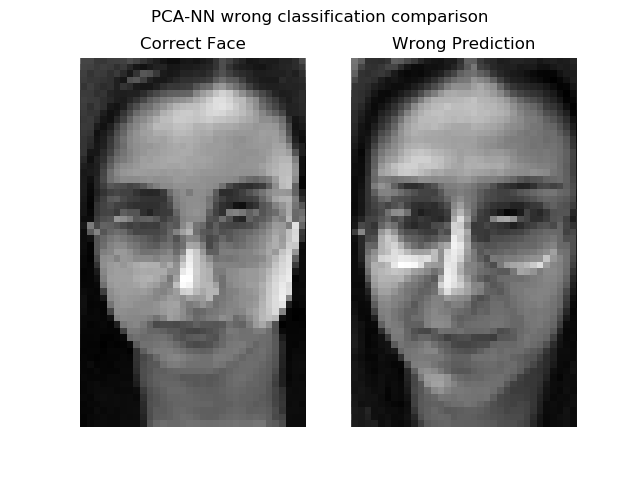
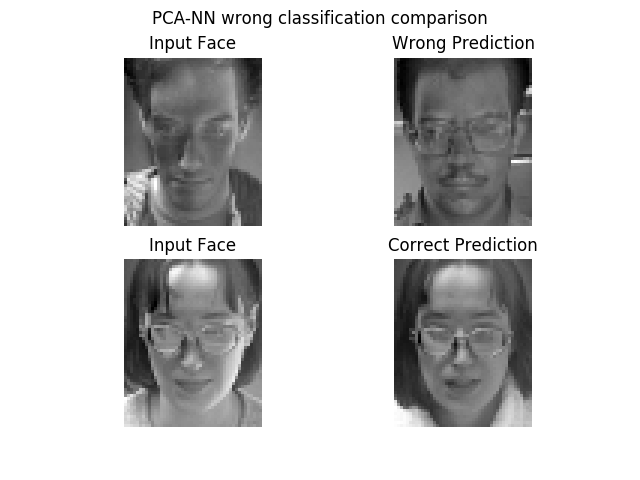
adding wrong and correct examples

diff --git a/Coursework 1/q3.py b/Coursework 1/q3.py
@@ -97,12 +97,24 @@ def identity_error(labels, labels_correct):
     #normalise by size of labels
     return err/len(labels)
 
+def nn_classifier_index(face,train):
+    nn = copy.deepcopy(train)
+    label_index = 0
+    min_distance =  np.linalg.norm(face - nn)
+    for i in range(1,train.shape[0]):
+        #get distance between
+        curr_distance = np.linalg.norm(face - train[i])
+        if curr_distance < min_distance:
+            nn = train[i]
+            min_distance = curr_distance
+            label_index = i
+    return label_index
+
 def main():
 
     # Load dataset
     dataset = load_data()
 
-    '''
 
     ##############
     # BASIC TEST #
@@ -119,9 +131,58 @@ def main():
 
     # Run
     lda.run_pca_lda()
-    lda.run_nn_classifier()
+    err, y_pred = lda.run_nn_classifier()
 
+    # find wrong classification
+    err_index = 0
+    for i in range(1,len(y_pred)):
+        if not y_pred[i] == dataset['test_y'][i]:
+            err_index = i
+            break
+        if y_pred[i] == dataset['test_y'][i]:
+            corr_index = i
 
+    correct_face = copy.deepcopy(dataset['test_x'][:,[err_index]])
+    index = nn_classifier_index(lda.transform(correct_face),lda.transform(dataset['train_x']))
+    wrong_face   = copy.deepcopy(dataset['train_x'][:,[index]])
+
+    correct_face_2 = copy.deepcopy(dataset['test_x'][:,[corr_index]])
+    index = nn_classifier_index(lda.transform(correct_face_2),lda.transform(dataset['train_x']))
+    corr_face   = copy.deepcopy(dataset['train_x'][:,[index]])
+
+    # plot both faces to compare
+    plt.figure()
+    f, ax = plt.subplots(2, 2, sharey=True)
+    f.suptitle('PCA-LDA-NN wrong classification comparison')
+
+    img = (correct_face).reshape((46,56))
+    img = np.rot90(img,3)
+    ax[0,0].imshow(img, cmap="gray")
+    ax[0,0].axis('off')
+    ax[0,0].set_title('Input Face')
+
+    img = (wrong_face).reshape((46,56))
+    img = np.rot90(img,3)
+    ax[0,1].imshow(img, cmap="gray")
+    ax[0,1].axis('off')
+    ax[0,1].set_title('Wrong Prediction')
+
+    img = (correct_face_2).reshape((46,56))
+    img = np.rot90(img,3)
+    ax[1,0].imshow(img, cmap="gray")
+    ax[1,0].axis('off')
+    ax[1,0].set_title('Input Face')
+
+    img = (corr_face).reshape((46,56))
+    img = np.rot90(img,3)
+    ax[1,1].imshow(img, cmap="gray")
+    ax[1,1].axis('off')
+    ax[1,1].set_title('Correct Prediction')
+
+    #plt.title('Comparison of reconstruction')
+    plt.savefig("results/q3/wrong_pca_lda_nn_classifier.png", format="png", transparent=True)
+
+    '''
 
 
     ######################

diff --git a/Coursework 1/q1-2.py b/Coursework 1/q1-2.py
@@ -21,6 +21,8 @@ def main():
     M = np.arange(0,401,5)
     #M = np.arange(0,200,25)
 
+    '''
+
     ########################
     # RECONSTRUCTION ERROR #
     ########################
@@ -253,6 +255,8 @@ def main():
     # CLASSIFIER COMPARISON #
     #########################
 
+    '''
+
     # Best, reconstruction classifier
     eigenface.M = 2
     err, y_pred = eigenface.run_reconstruction_classifier(err_min=20)
@@ -263,31 +267,53 @@ def main():
 
     # find wrong classification
     err_index = 0
-    for i in range(3,len(y_pred)):
+
+    for i in range(20,len(y_pred)):
         if not y_pred[i] == dataset[1][1][i]:
             err_index = i
+            break
+
+    for i in range(1,len(y_pred)):
+        if y_pred[i] == dataset[1][1][i]:
+            corr_index = i
             break
 
     correct_face = copy.deepcopy(dataset[1][0][:,[err_index]])
     index = eigenface.nn_classifier_index(eigenface.project_to_face_space(correct_face))
     wrong_face   = copy.deepcopy(dataset[0][0][:,[index]])
 
+    correct_face_2 = copy.deepcopy(dataset[1][0][:,[corr_index]])
+    index = eigenface.nn_classifier_index(eigenface.project_to_face_space(correct_face_2))
+    corr_face   = copy.deepcopy(dataset[0][0][:,[index]])
+
     # plot both faces to compare
     plt.figure()
-    f, (ax1, ax2) = plt.subplots(1, 2, sharey=True)
+    f, ax = plt.subplots(2, 2, sharey=True)
     f.suptitle('PCA-NN wrong classification comparison')
 
-    img = (correct_face + mean).reshape((46,56))
+    img = (correct_face).reshape((46,56))
     img = np.rot90(img,3)
-    ax1.imshow(img, cmap="gray")
-    ax1.axis('off')
-    ax1.set_title('Correct Face')
+    ax[0,0].imshow(img, cmap="gray")
+    ax[0,0].axis('off')
+    ax[0,0].set_title('Input Face')
 
-    img = (wrong_face + mean).reshape((46,56))
+    img = (wrong_face).reshape((46,56))
     img = np.rot90(img,3)
-    ax2.imshow(img, cmap="gray")
-    ax2.axis('off')
-    ax2.set_title('Wrong Prediction')
+    ax[0,1].imshow(img, cmap="gray")
+    ax[0,1].axis('off')
+    ax[0,1].set_title('Wrong Prediction')
+
+    img = (correct_face_2).reshape((46,56))
+    img = np.rot90(img,3)
+    ax[1,0].imshow(img, cmap="gray")
+    ax[1,0].axis('off')
+    ax[1,0].set_title('Input Face')
+
+    img = (corr_face).reshape((46,56))
+    img = np.rot90(img,3)
+    ax[1,1].imshow(img, cmap="gray")
+    ax[1,1].axis('off')
+    ax[1,1].set_title('Correct Prediction')
 
     #plt.title('Comparison of reconstruction')
     plt.savefig("results/q1-2/wrong_nn_classifier.png", format="png", transparent=True)
